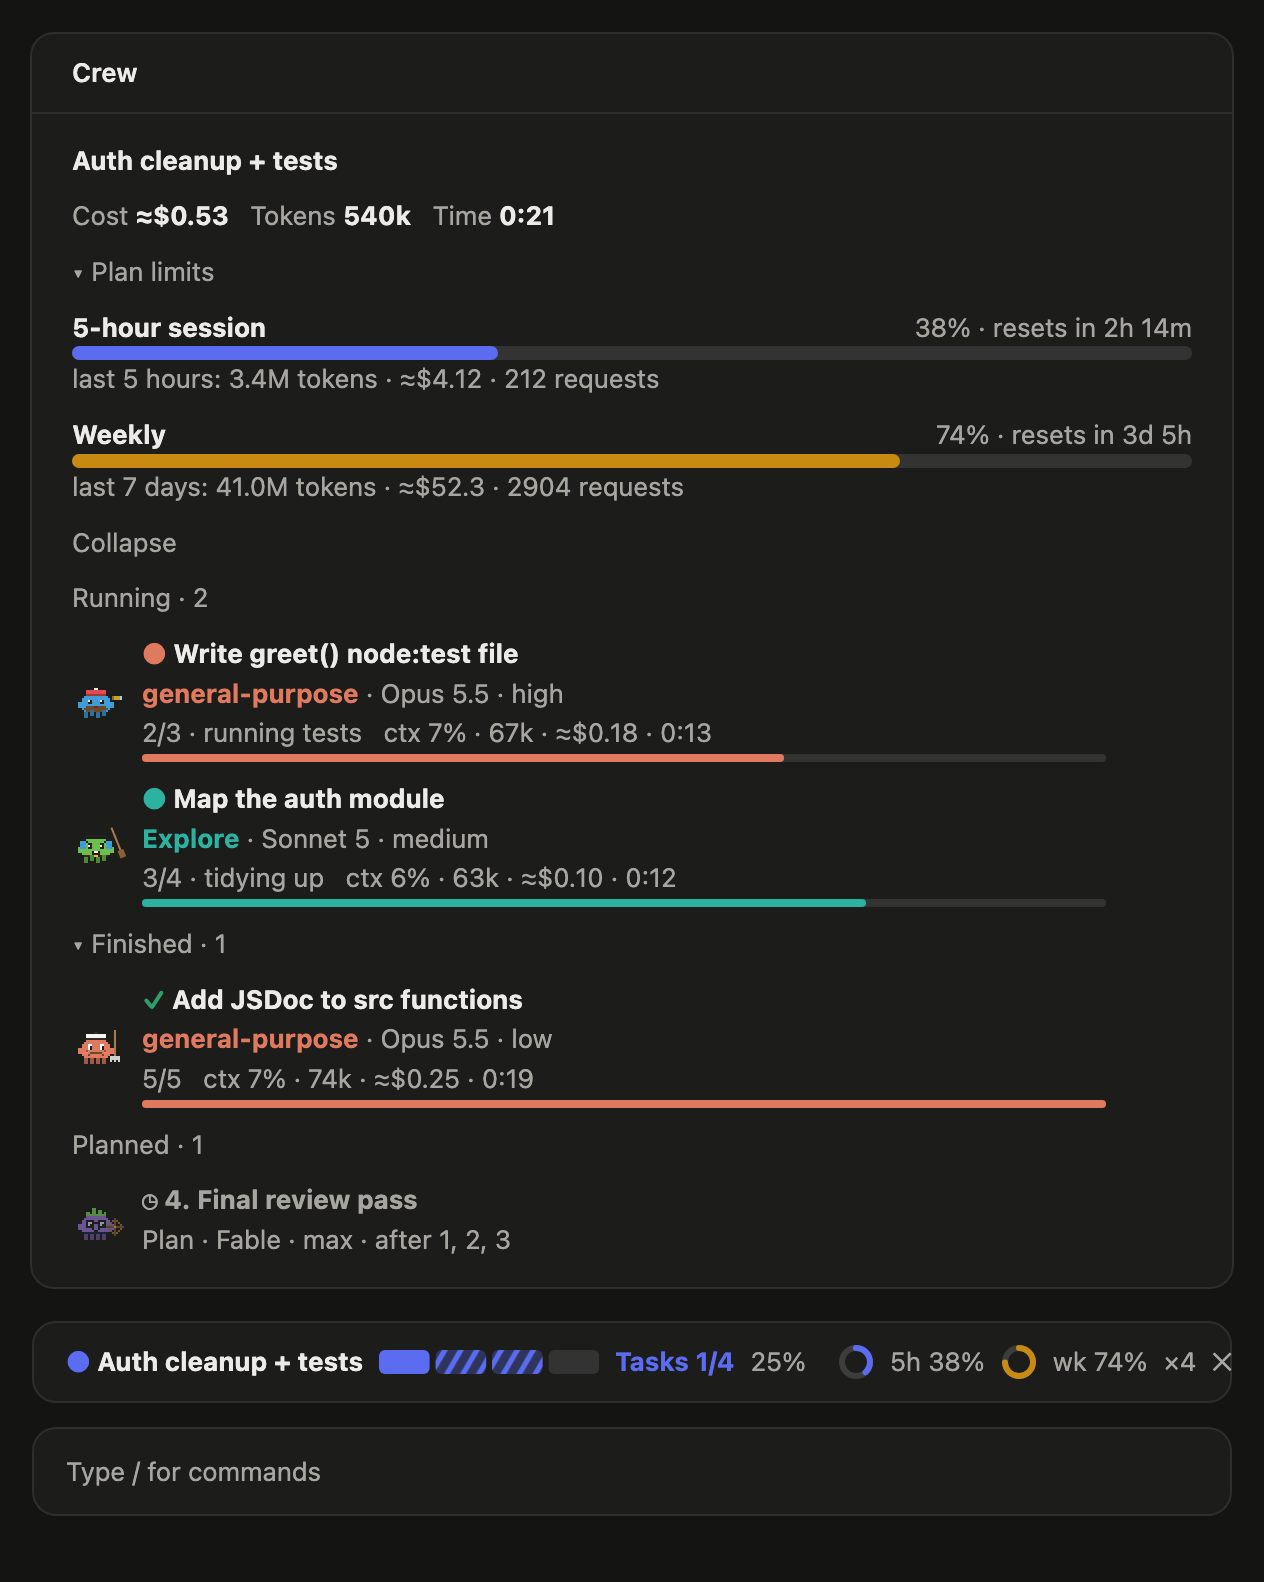
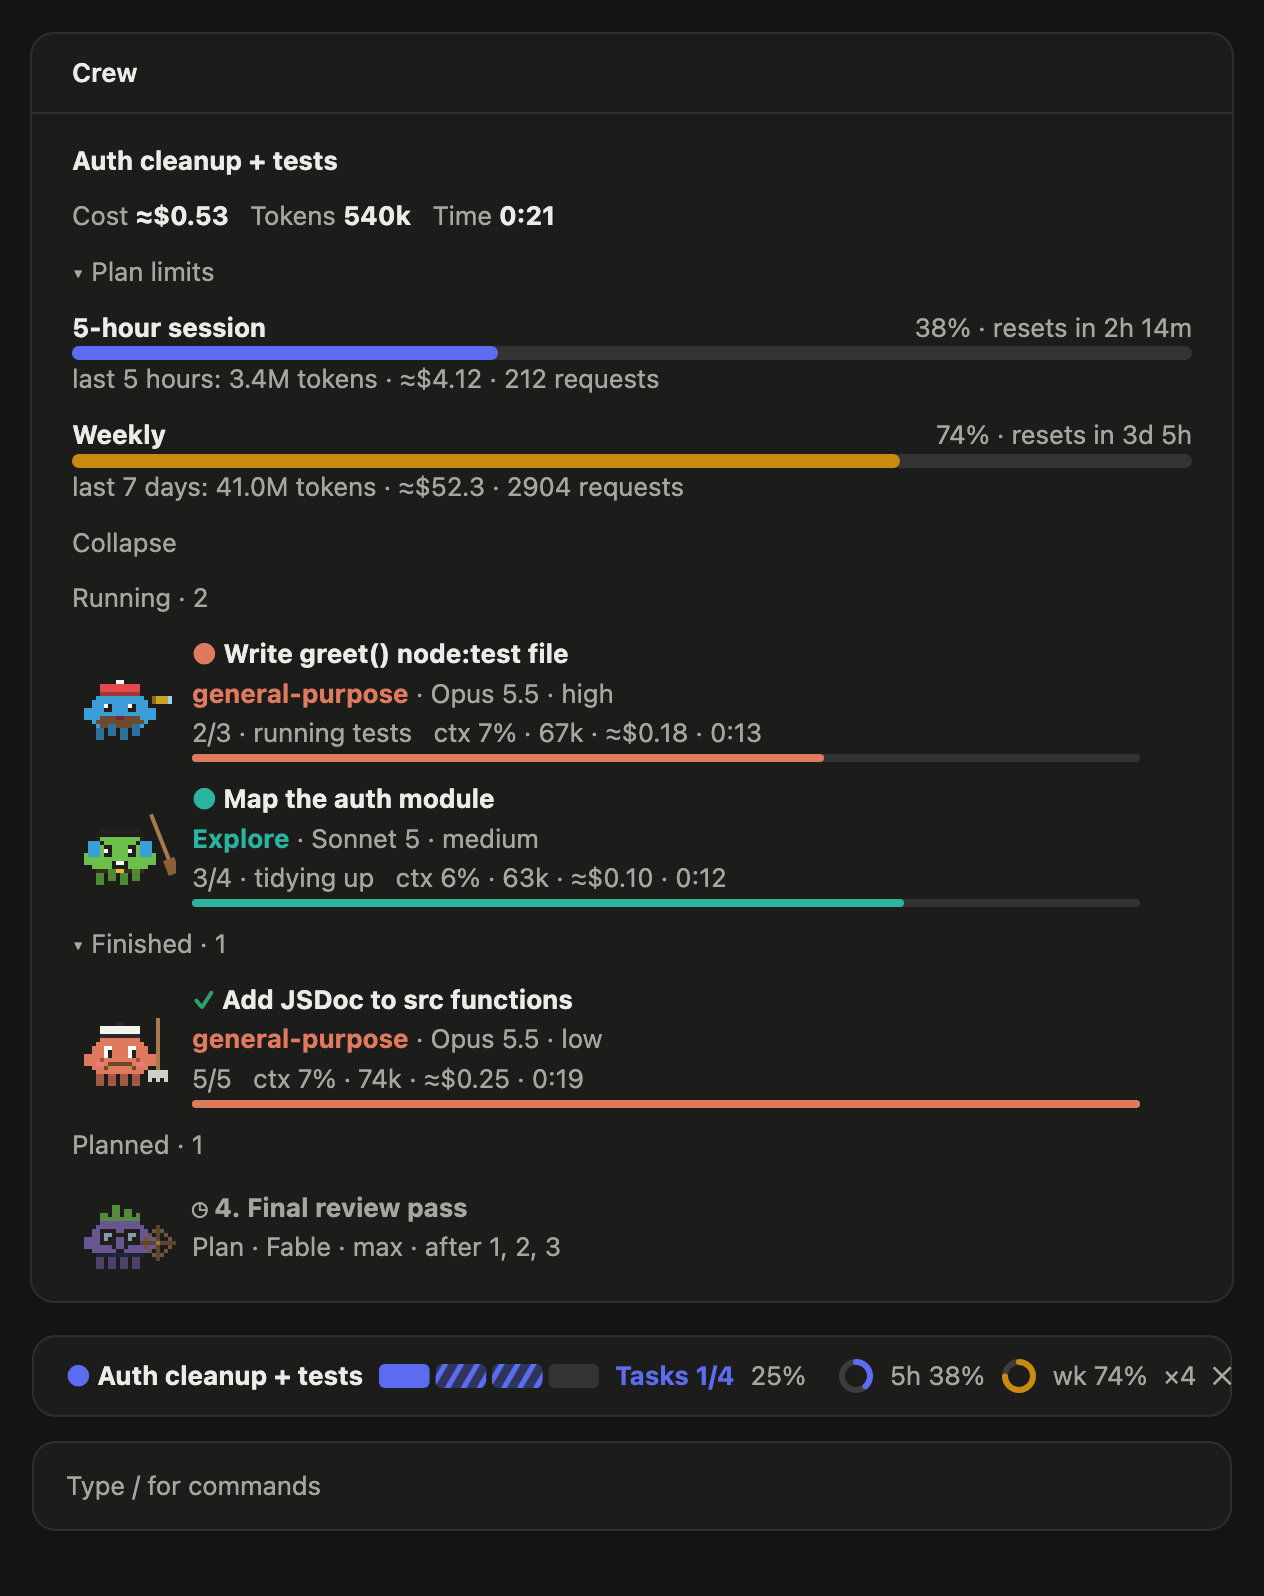
feat: bigger mascots in the panel and the browser; release 1.6.6
Panel rows draw the 26x22 sprite at a crisp 2x (52x46, was 27x24) and
the compact strip at 1.8x on a 50px step. The browser view draws them
at 88x74 in rows (was 62x52) and 60x51 in the compact strip. Terminal
mascots are unchanged. Panel and browser screenshots refreshed.

diff --git a/hooks/draw.ts b/hooks/draw.ts
@@ -89,12 +89,13 @@ export const stepText = (r: CrewRun): string =>
 export const statusGlyph = (status: string): string => (status === 'running' ? '●' : status === 'done' ? '✓' : status === 'failed' ? '✗' : '◷')
 export const statusColor = (status: string, color: string): string => (status === 'done' ? OK : status === 'failed' ? BAD : status === 'running' ? color : '#8a8a8a')
 
-export const MASCOT_W = 27
-export const MASCOT_H = 24
+// The 26×22 sprite at a whole 2×, so every pixel stays crisp.
+export const MASCOT_W = 52
+export const MASCOT_H = 46
 
 /** One mascot on its own, for a row's left edge. */
 export const mascotSvg = (slot: number, effort: string | undefined, opts: { running?: boolean; dim?: boolean } = {}): string =>
-  svg(MASCOT_W, MASCOT_H, mascot(0, 1, 1, slot, effort, opts))
+  svg(MASCOT_W, MASCOT_H, mascot(0, 2, 2, slot, effort, opts))
 
 export const BAR_H = 6
 
@@ -107,18 +108,19 @@ export function barSvg(W: number, ratio: number | null, color: string, h = BAR_H
 /** Fill color of a usage meter: calm, then amber past 70%, red past 90%. */
 export const meterColor = (pct: number): string => (pct >= 90 ? BAD : pct >= 70 ? WARN : ACCENT)
 
-export const STRIP_H = 32
+export const STRIP_H = 40
+export const STRIP_STEP = 50
 
 /** A row of small mascots for the compact view. */
 export function stripSvg(W: number, icons: Array<{ slot: number; effort?: string | undefined; running: boolean; dim: boolean }>): string {
-  const step = 38
+  const step = STRIP_STEP
   const fit = Math.max(1, Math.floor(W / step))
   return svg(
     Math.min(W, Math.max(step, icons.slice(0, fit).length * step)),
     STRIP_H,
     icons
       .slice(0, fit)
-      .map((ic, i) => mascot(i * step, 0, 1.4, ic.slot, ic.effort, { running: ic.running, dim: ic.dim }))
+      .map((ic, i) => mascot(i * step, 0, 1.8, ic.slot, ic.effort, { running: ic.running, dim: ic.dim }))
       .join(''),
   )
 }

diff --git a/src/dashboard/client.js b/src/dashboard/client.js
@@ -136,7 +136,7 @@
       el.dataset.sig = sig
       el.className = `row ${a.status}`
       el.innerHTML = runRowHtml(a)
-      el.querySelector('[data-k=mascot]').innerHTML = mascotSvg(a.mascot, 62, 52)
+      el.querySelector('[data-k=mascot]').innerHTML = mascotSvg(a.mascot, 88, 74)
       el.querySelector('[data-k=status]').innerHTML = statusHtml(a.status, color)
     }
     el.querySelector('[data-k=name]').textContent = a.description || a.type
@@ -158,7 +158,7 @@
       .map(esc)
       .join(' · ')
     return `
-      <div class="mascot" style="opacity:.4">${mascotSvg(p.mascot, 62, 52)}</div>
+      <div class="mascot" style="opacity:.4">${mascotSvg(p.mascot, 88, 74)}</div>
       <div style="min-width:0">
         <div class="name">${p.n}. ${esc(p.title)}</div>
         <div class="meta">${meta || '&nbsp;'}</div>
@@ -236,14 +236,14 @@
         ...finished.map(a => ({ k: a.id, mascot: a.mascot, dim: false })),
         ...planned.map(p => ({ k: 'p' + p.n, mascot: p.mascot, dim: true })),
       ]
-      const max = Math.max(1, Math.floor(($('#compact').clientWidth || 600) / 52) - 1)
+      const max = Math.max(1, Math.floor(($('#compact').clientWidth || 600) / 66) - 1)
       const shown = icons.slice(0, max)
       // Rebuild only when the strip changes, so walking mascots keep their stride.
       const sig = JSON.stringify([shown, icons.length])
       if ($('#compact').dataset.sig === sig) return
       $('#compact').dataset.sig = sig
       $('#compact').innerHTML =
-        shown.map(i => `<span class="mini${i.dim ? ' dim' : ''}" title="">${mascotSvg(i.mascot, 48, 41)}</span>`).join('') +
+        shown.map(i => `<span class="mini${i.dim ? ' dim' : ''}" title="">${mascotSvg(i.mascot, 60, 51)}</span>`).join('') +
         (icons.length > shown.length ? `<span class="more">+${icons.length - shown.length}</span>` : '')
       return
     }

diff --git a/src/dashboard/client.css b/src/dashboard/client.css
@@ -148,9 +148,9 @@ button:focus-visible { outline: 2px solid var(--accent); outline-offset: 2px; bo
 .section-h button:hover { color: var(--text); }
 .empty { color: var(--muted); padding: 22px 4px 8px; text-align: center; }
 
-.row { display: grid; grid-template-columns: 62px 1fr 16px; gap: 10px; align-items: center; padding: 10px 0; border-bottom: 1px solid var(--line); }
+.row { display: grid; grid-template-columns: 88px 1fr 16px; gap: 10px; align-items: center; padding: 10px 0; border-bottom: 1px solid var(--line); }
 .row:last-child { border-bottom: 0; }
-.row .mascot { width: 62px; height: 56px; }
+.row .mascot { width: 88px; height: 76px; }
 .row .name { font-weight: 600; white-space: nowrap; overflow: hidden; text-overflow: ellipsis; }
 .row .meta { font-size: 12px; color: var(--muted); white-space: nowrap; overflow: hidden; text-overflow: ellipsis; }
 .row .meta .type { font-weight: 600; }
@@ -167,7 +167,7 @@ button:focus-visible { outline: 2px solid var(--accent); outline-offset: 2px; bo
 @keyframes pulse { 50% { opacity: 0.3; } }
 
 .compact { display: flex; align-items: center; gap: 4px; padding: 8px 0 2px; flex-wrap: wrap; }
-.compact .mini { width: 48px; height: 43px; position: relative; }
+.compact .mini { width: 60px; height: 53px; position: relative; }
 .compact .mini.dim { opacity: 0.4; }
 .compact .more { color: var(--muted); font-size: 13px; margin-left: 4px; }
 

diff --git a/hooks/register.tsx b/hooks/register.tsx
@@ -31,6 +31,7 @@ import {
   statusGlyph,
   stepText,
   STRIP_H,
+  STRIP_STEP,
   stripSvg,
   textBar,
   meterColor,
@@ -827,7 +828,7 @@ export const register: Register = (on, options) => {
               {s().empty}
             </Text>
           ) : null}
-          {panel.isCompact && !isEmpty ? <Svg key="strip" source={stripSvg(W, icons)} alt={s().agentsCount(icons.length)} width={Math.min(W, icons.length * 38)} height={STRIP_H} /> : null}
+          {panel.isCompact && !isEmpty ? <Svg key="strip" source={stripSvg(W, icons)} alt={s().agentsCount(icons.length)} width={Math.min(W, icons.length * STRIP_STEP)} height={STRIP_H} /> : null}
           {!panel.isCompact && running.length > 0 ? (
             <Text key="h-running" dimColor>
               {`${s().running} · ${running.length}`}

diff --git a/scripts/mod-preview.ts b/scripts/mod-preview.ts
@@ -7,6 +7,7 @@ import {
   crewSlots,
   ctxPercent,
   mascotCells,
+  MASCOT_W,
   mascotSvg,
   meterColor,
   progressOf,
@@ -55,7 +56,7 @@ const PLANNED = 'Final review pass'
 const slotOf = crewSlots(JOB, [finished[0]!, running[0]!, running[1]!].map(r => r.description.toLowerCase()).concat(PLANNED.toLowerCase()))
 const slot = (title: string): number => slotOf(title.toLowerCase())
 
-const barW = W - 44 - 34
+const barW = W - MASCOT_W - 34
 const row = (r: CrewRun): string => {
   const color = typeColor(r.type)
   const p = progressOf(r)

diff --git a/CHANGELOG.md b/CHANGELOG.md
@@ -1,5 +1,9 @@
 # Changelog
 
+## 1.6.6 — 2026-10-11
+
+- **Bigger mascots in the panel and the browser.** Panel rows draw the crew at a crisp 2× (52×46, was 27×24) and the compact strip at 1.8×. The browser view draws them at 88×74 in rows (was 62×52) and 60×51 in the compact strip. Terminal mascots are unchanged. Screenshots refreshed.
+
 ## 1.6.5 — 2026-10-11
 
 - Browser view mascots 40% larger (44×37 to 62×52 in rows, 34×29 to 48×41 in the compact strip). The panel and terminal mascots are unchanged.
